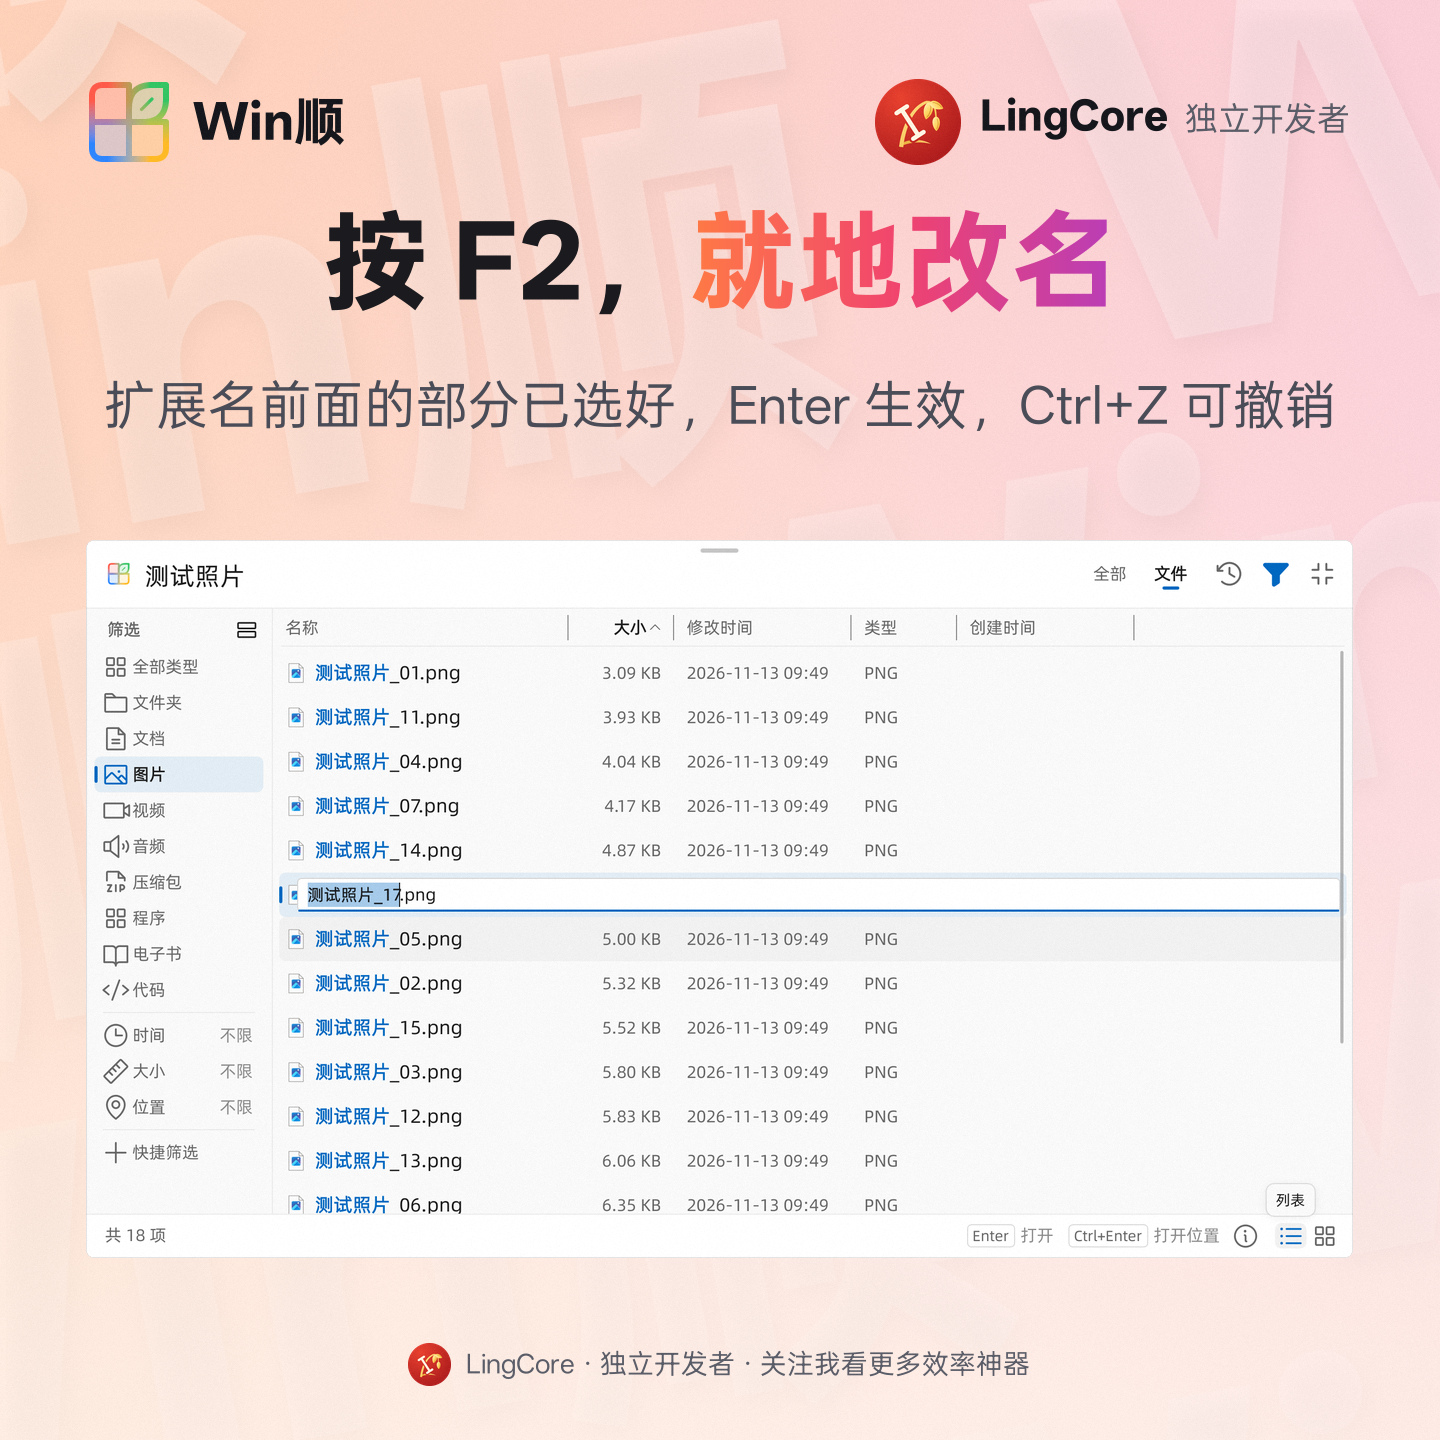
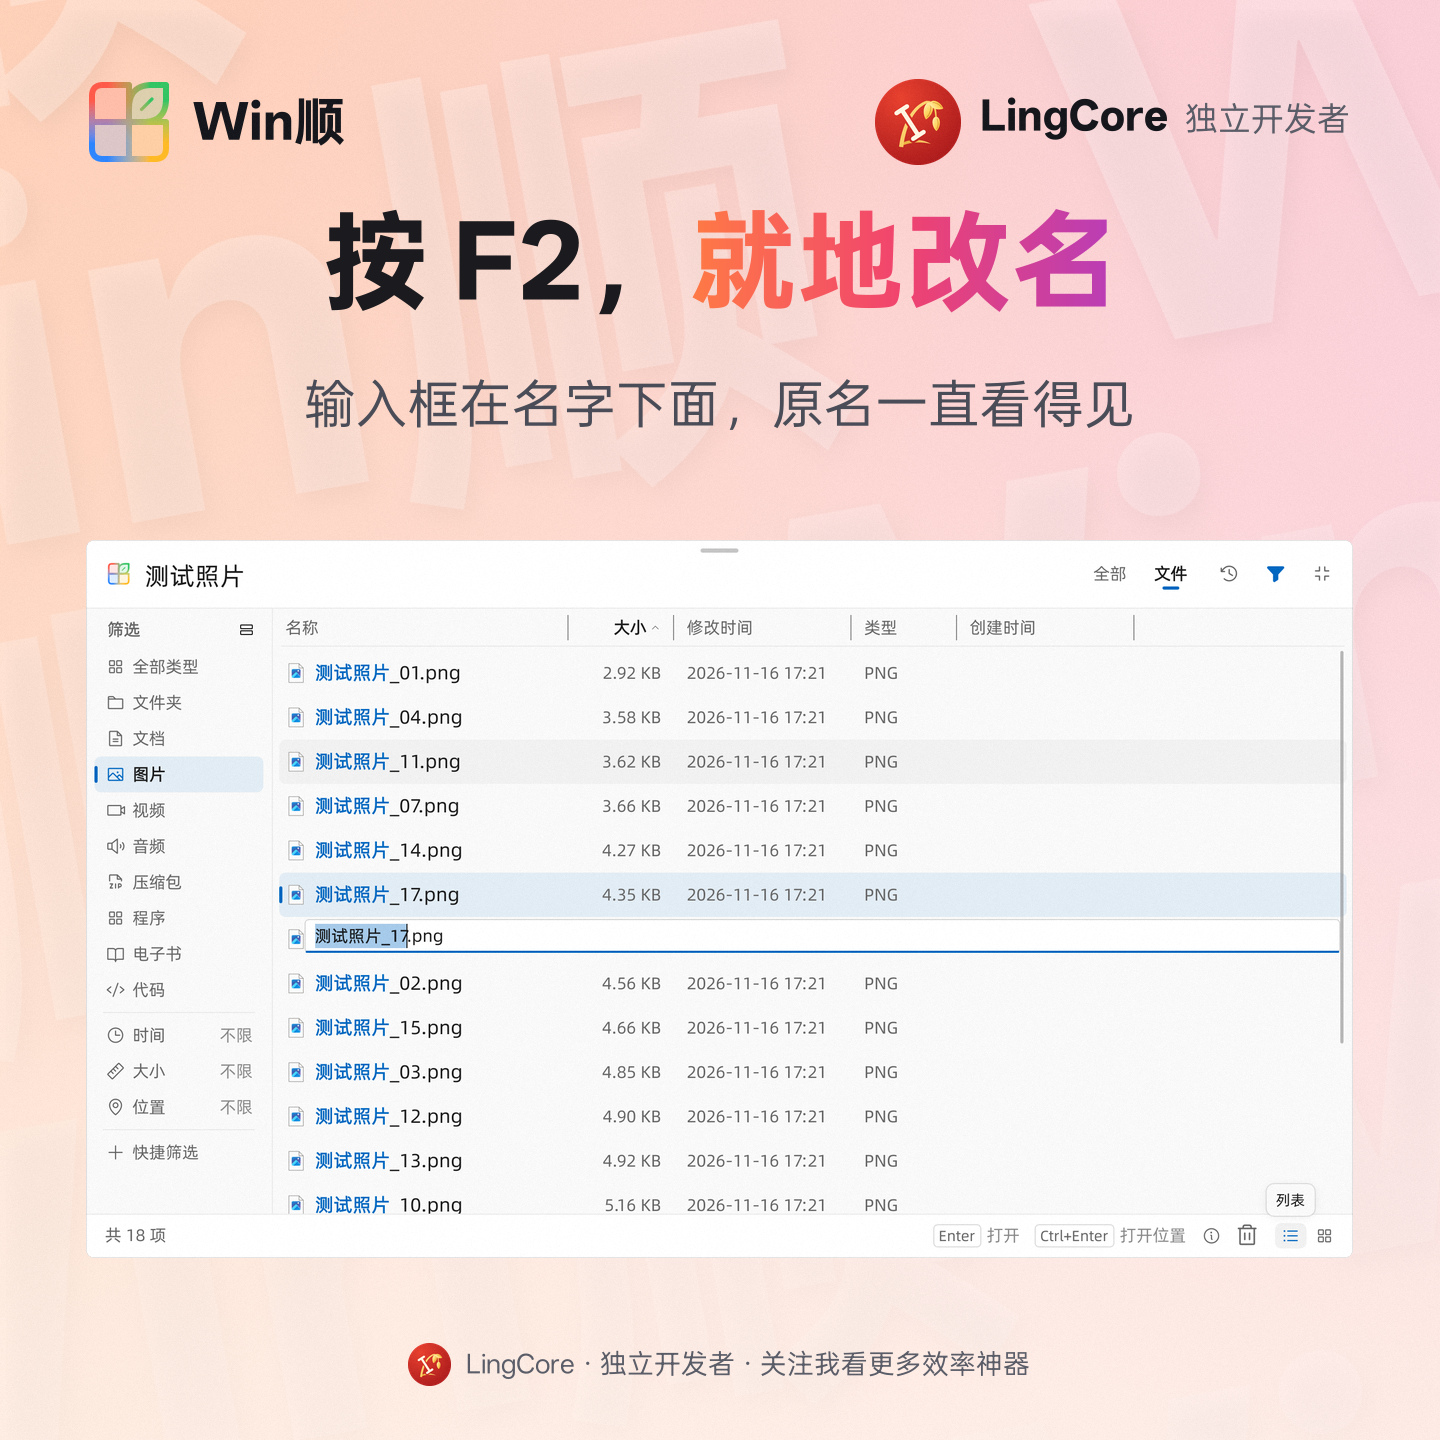
0.32.0 poster: F2 rename with its box under the name (#335)
Rendered from the release build's production preview (--preview-results
--file-metadata, --scale 2, d3d11) by tools/screenshots/release032.py.

diff --git a/tools/screenshots/release032.py b/tools/screenshots/release032.py
@@ -1,0 +1,46 @@
+"""Export the poster 0.32.0 redoes, from a production preview of its build.
+
+The raw picture comes from a run of the release build's WinShun.exe (an
+isolated temporary profile, --scale 2 --renderer d3d11, QT_FONT_DPI=96, see
+release027.py) into the --work directory:
+
+  gallery   WinShun.exe --preview-results <work>/gallery --file-metadata --gallery-image scenes/区域销售额.png
+
+One poster is redone: F2 rename, its box now under the name (#335). At 200 %
+that run's "room beside" placement check fails (the preview's screen is
+sized for 150 %); at 1.5 every check passes. Without a poster: the right
+drag out (Explorer's own menu), the plugin library's What's new dialog (the
+preview's library has no notes), directory links, the file dialog keys and
+the fixes (nothing new to see).
+"""
+import argparse
+from pathlib import Path
+import sys
+
+sys.dont_write_bytecode = True
+
+import release017
+import shots
+
+SOURCES = {
+    "rename": ("L-rename", "gallery/rename-box.png", None),
+}
+
+POSTERS = (
+    ("rename", "L-rename", "按 F2，[就地改名]", "输入框在名字下面，原名一直看得见"),
+)
+
+
+def main():
+    parser = argparse.ArgumentParser(description=__doc__)
+    parser.add_argument("--exe", type=Path, required=True)
+    parser.add_argument("--work", type=Path, required=True)
+    args = parser.parse_args()
+    release017.SOURCES = SOURCES
+    shots.README_ONLY = shots.README_ONLY + POSTERS
+    sys.argv = [sys.argv[0], "--exe", str(args.exe), "--work", str(args.work), "--export-only"]
+    release017.main()
+
+
+if __name__ == "__main__":
+    main()
